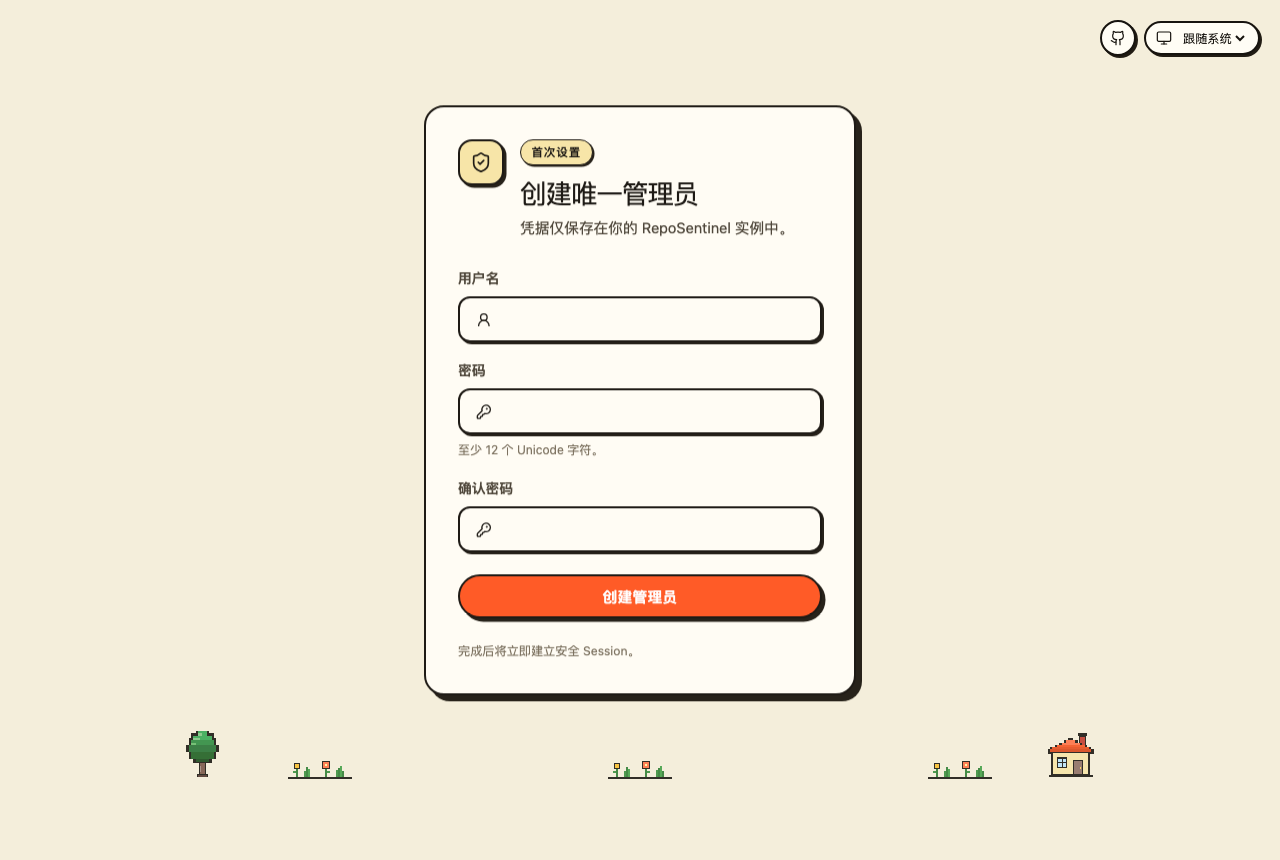
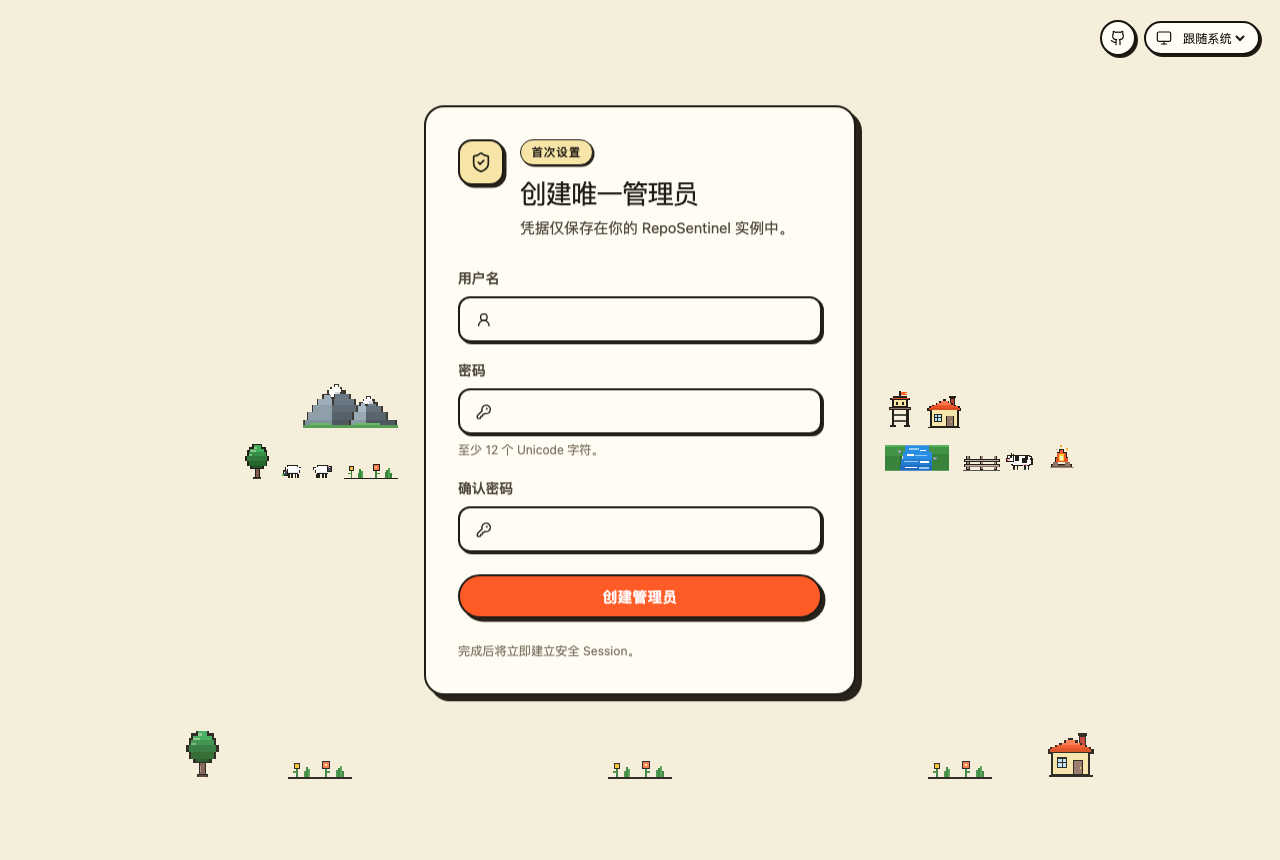
✨ feat(ui): 挂载天际浮云组件并为两侧田园画卷补充浮空云景

diff --git a/web/src/components/pixel-scenery.tsx b/web/src/components/pixel-scenery.tsx
@@ -672,8 +672,11 @@ export const PixelFence: FC<{ className?: string }> = ({ className }) => (
 export const PixelAuthFlanks: FC = () => {
   return (
     <div className="auth-flanks" aria-hidden="true">
-      {/* 左侧翼：高山、松林与吃草小羊 */}
+      {/* 左侧翼：浮云、高山、松林与吃草小羊 */}
       <aside className="auth-flank auth-flank--left">
+        <div className="auth-flank__cloud auth-flank__cloud--left">
+          <PixelCloud />
+        </div>
         <div className="auth-flank__mountain">
           <PixelMountain />
         </div>
@@ -691,8 +694,11 @@ export const PixelAuthFlanks: FC = () => {
         </div>
       </aside>
 
-      {/* 右侧翼：小溪流水、木屋、木栅栏与奶牛 */}
+      {/* 右侧翼：浮云、小溪流水、木屋、木栅栏与奶牛 */}
       <aside className="auth-flank auth-flank--right">
+        <div className="auth-flank__cloud auth-flank__cloud--right">
+          <PixelCloud />
+        </div>
         <div className="auth-flank__buildings">
           <PixelWatchtower />
           <PixelHouse />

diff --git a/web/src/styles/globals.css b/web/src/styles/globals.css
@@ -3619,12 +3619,13 @@ a.status-item--link:focus-visible {
 /* ── 认证页浮空天际小景 ── */
 .auth-sky {
   position: absolute;
-  top: 32px;
-  right: 48px;
+  top: 28px;
+  left: 36px;
   pointer-events: none;
   user-select: none;
-  opacity: 0.75;
+  opacity: 0.78;
   z-index: 1;
+  animation: flank-cloud-float 8s ease-in-out infinite alternate;
 }
 
 /* ── 关于页哨兵瞭望微缩景 ── */
@@ -3962,6 +3963,32 @@ a.status-item--link:focus-visible {
 .auth-flank--right {
   left: calc(50% + 248px);
   align-items: flex-start;
+}
+
+
+.auth-flank__cloud {
+  opacity: 0.85;
+  margin-bottom: 6px;
+  animation: flank-cloud-float 6s ease-in-out infinite alternate;
+}
+
+.auth-flank__cloud--left {
+  align-self: flex-start;
+  margin-left: 10px;
+}
+
+.auth-flank__cloud--right {
+  align-self: flex-end;
+  margin-right: 16px;
+}
+
+@keyframes flank-cloud-float {
+  0% {
+    transform: translateY(0);
+  }
+  100% {
+    transform: translateY(-5px);
+  }
 }
 
 .auth-flank__mountain {

diff --git a/web/src/features/auth/login-page.tsx b/web/src/features/auth/login-page.tsx
@@ -5,7 +5,7 @@ import { useForm } from "react-hook-form";
 import { ErrorAlert } from "../../components/error-alert";
 import { GithubIcon } from "../../components/github-icon";
 import { ThemeToggle } from "../../components/theme-toggle";
-import { PixelAuthFlanks, PixelSceneryGround } from "../../components/pixel-scenery";
+import { PixelAuthFlanks, PixelCloud, PixelSceneryGround } from "../../components/pixel-scenery";
 import { apiRequest } from "../../lib/api/client";
 import { ApiError, toApiError } from "../../lib/api/errors";
 import { AuthCardHeader, AuthField, applyZodErrors } from "./auth-card";
@@ -152,6 +152,9 @@ export function LoginPage({
 
   return (
     <main className="auth-shell">
+      <div className="auth-sky" aria-hidden="true">
+        <PixelCloud />
+      </div>
       <div className="auth-shell__theme">
         {/* 仓库入口：登录页右上角 GitHub 图标直达源码/Issue。 */}
         <a

diff --git a/web/src/features/auth/setup-page.tsx b/web/src/features/auth/setup-page.tsx
@@ -5,7 +5,7 @@ import { useForm } from "react-hook-form";
 import { ErrorAlert } from "../../components/error-alert";
 import { GithubIcon } from "../../components/github-icon";
 import { ThemeToggle } from "../../components/theme-toggle";
-import { PixelAuthFlanks, PixelSceneryGround } from "../../components/pixel-scenery";
+import { PixelAuthFlanks, PixelCloud, PixelSceneryGround } from "../../components/pixel-scenery";
 import { ApiError, toApiError } from "../../lib/api/errors";
 import { AuthCardHeader, AuthField, applyZodErrors } from "./auth-card";
 import { createAdmin } from "./api";
